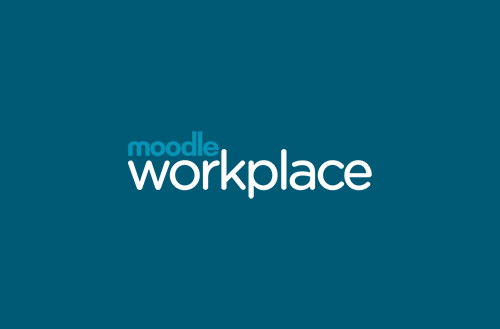
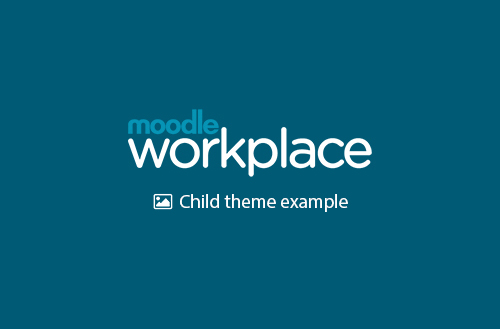
WP-3867 Workplace child theme release

Changed region(s): [[0.24, 0.3343, 0.75, 0.6383]]

diff --git a/lang/en/theme_wpchild.php b/lang/en/theme_wpchild.php
@@ -27,8 +27,8 @@ defined('MOODLE_INTERNAL') || die();
 
 $string['backgroundpattern'] = 'Background pattern';
 $string['choosereadme'] = 'Welcome to Workplace child theme example.';
-$string['pluginname'] = 'Workplace child theme';
-$string['privacy:metadata'] = 'The Workplace child theme does not store any personal data about any user.';
+$string['pluginname'] = 'Workplace child theme example';
+$string['privacy:metadata'] = 'The Workplace child theme example does not store any personal data about any user.';
 $string['rawscss'] = 'Raw SCSS';
 $string['rawscss_desc'] = 'Use this field to provide SCSS or CSS code which will be injected at the end of the style sheet.';
 $string['rawscsspre'] = 'Raw initial SCSS';

diff --git a/version.php b/version.php
@@ -24,10 +24,9 @@
 
 defined('MOODLE_INTERNAL') || die();
 
-// This plugin is part of Moodle Workplace product.
 $plugin->component    = 'theme_wpchild';
-$plugin->release      = '4.2dev';
-$plugin->version      = 2023050400;
+$plugin->release      = '4.2';
+$plugin->version      = 2023071700;
 $plugin->requires     = 2022112804.00;
 $plugin->maturity     = MATURITY_STABLE;
 $plugin->dependencies = [

diff --git a/lib.php b/lib.php
@@ -27,7 +27,7 @@ use theme_wpchild\manager;
 /**
  * Implementation of $THEME->scss
  *
- * @param theme_config $theme The theme config object.
+ * @param \theme_config $theme The theme config object.
  * @return string
  */
 function theme_wpchild_get_main_scss_content($theme) {

diff --git a/classes/manager.php b/classes/manager.php
@@ -51,7 +51,7 @@ class manager {
     /**
      * Adds custom SCSS
      *
-     * @param theme_config|null $theme
+     * @param \theme_config|null $theme
      * @return string
      */
     public static function get_custom_scss($theme): string {

diff --git a/README.md b/README.md
@@ -1,0 +1,42 @@
+# Workplace child theme example (theme_wpchild)
+
+This plugin is an example of a child theme for the Workplace theme (`theme_workplace`) used in
+**Moodle Workplace** product. It is intended to be used as a starting point for creating your own
+theme based on Workplace theme.
+
+## Requirements
+
+This plugin is open-source but it can only be used with Workplace product and it requires
+Workplace theme to be installed. Supported versions:
+
+- Moodle Workplace 4.1 with the build date no earlier than 2023-07-17 (4.1.4+ or 4.1.4+ Rolling).
+- Any version of Moodle Workplace 4.2.
+
+## Features
+
+Features introduced in this plugin are added to demonstrate the possibilities only, they may not have
+any practical use.
+
+- Functions `theme_wpchild_extend_tenant_edit_css_form()`, `theme_wpchild_tenant_get_css_config()`
+  `theme_wpchild_process_tenant_edit_css_requests()` in `lib.php` implement respective callbacks
+  from `tool_tenant` and allow to extend the tenant Branding form and adds a file manager
+  element for the Background image.
+- Class `\tool_wpchild\manager` contains functions that actually add this background image
+  to the tenant CSS. These functions are called from the standard callbacks for theme plugins
+  `theme_wpchild_get_main_scss_content()` and `theme_wpchild_alter_css_urls()`.
+- Folder `scss/` contains scss files that add the background image and change the fonts.
+- File `settings.php` defines the settings `theme_wpchild/scsspre` and `theme_wpchild/scss` similar
+  to how Workplace theme defines them.
+
+## Using theme_wpchild to create a new Workplace theme
+
+- Copy the folder `/theme/wpchild/` to a new folder `/theme/newtheme/` where `newtheme` is your theme name.
+- Inside the new folder rename the file `lang/en/theme_wpchild.php` to `lang/en/theme_newtheme.php`.
+- Search `wpchild` in the all folder files and replace with `newtheme`.
+- Now you can install this theme and start modifying settings, callbacks and scss files to implement
+  your theme features.
+- Substitute `pix/screenshot.jpg` with your own image.
+- Remove or replace files `README.md` and `CHANGELOG.md` since they describe
+  the features and changes in the `theme_wpchild` plugin.
+- Remove file `.gitlab-ci.yml` unless you also use GitLab CI
+  for continuous integration and testing.

diff --git a/CHANGELOG.md b/CHANGELOG.md
@@ -1,4 +1,4 @@
 # Changelog
 
-## Unreleased
+## 4.2 - 2023-07-17
 Initial version
